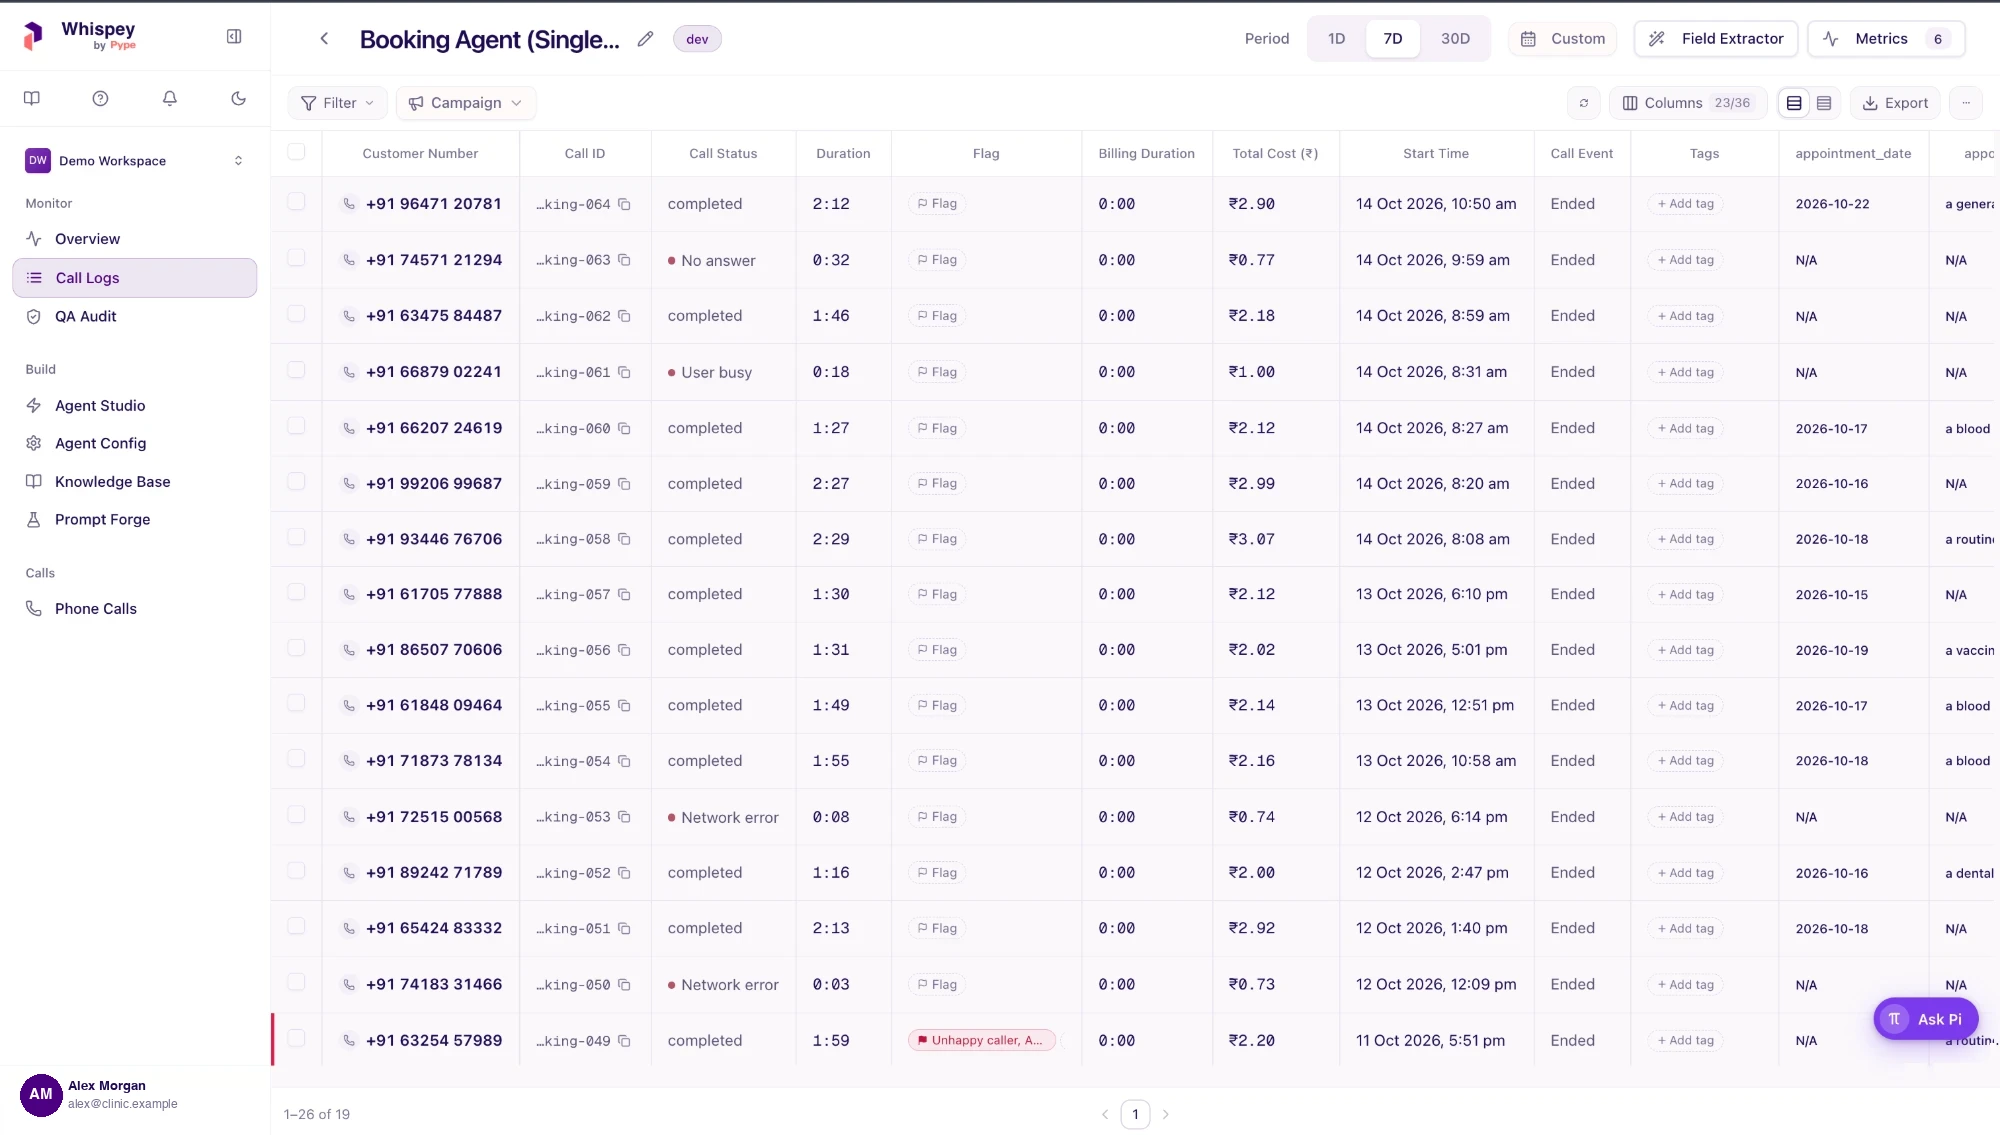
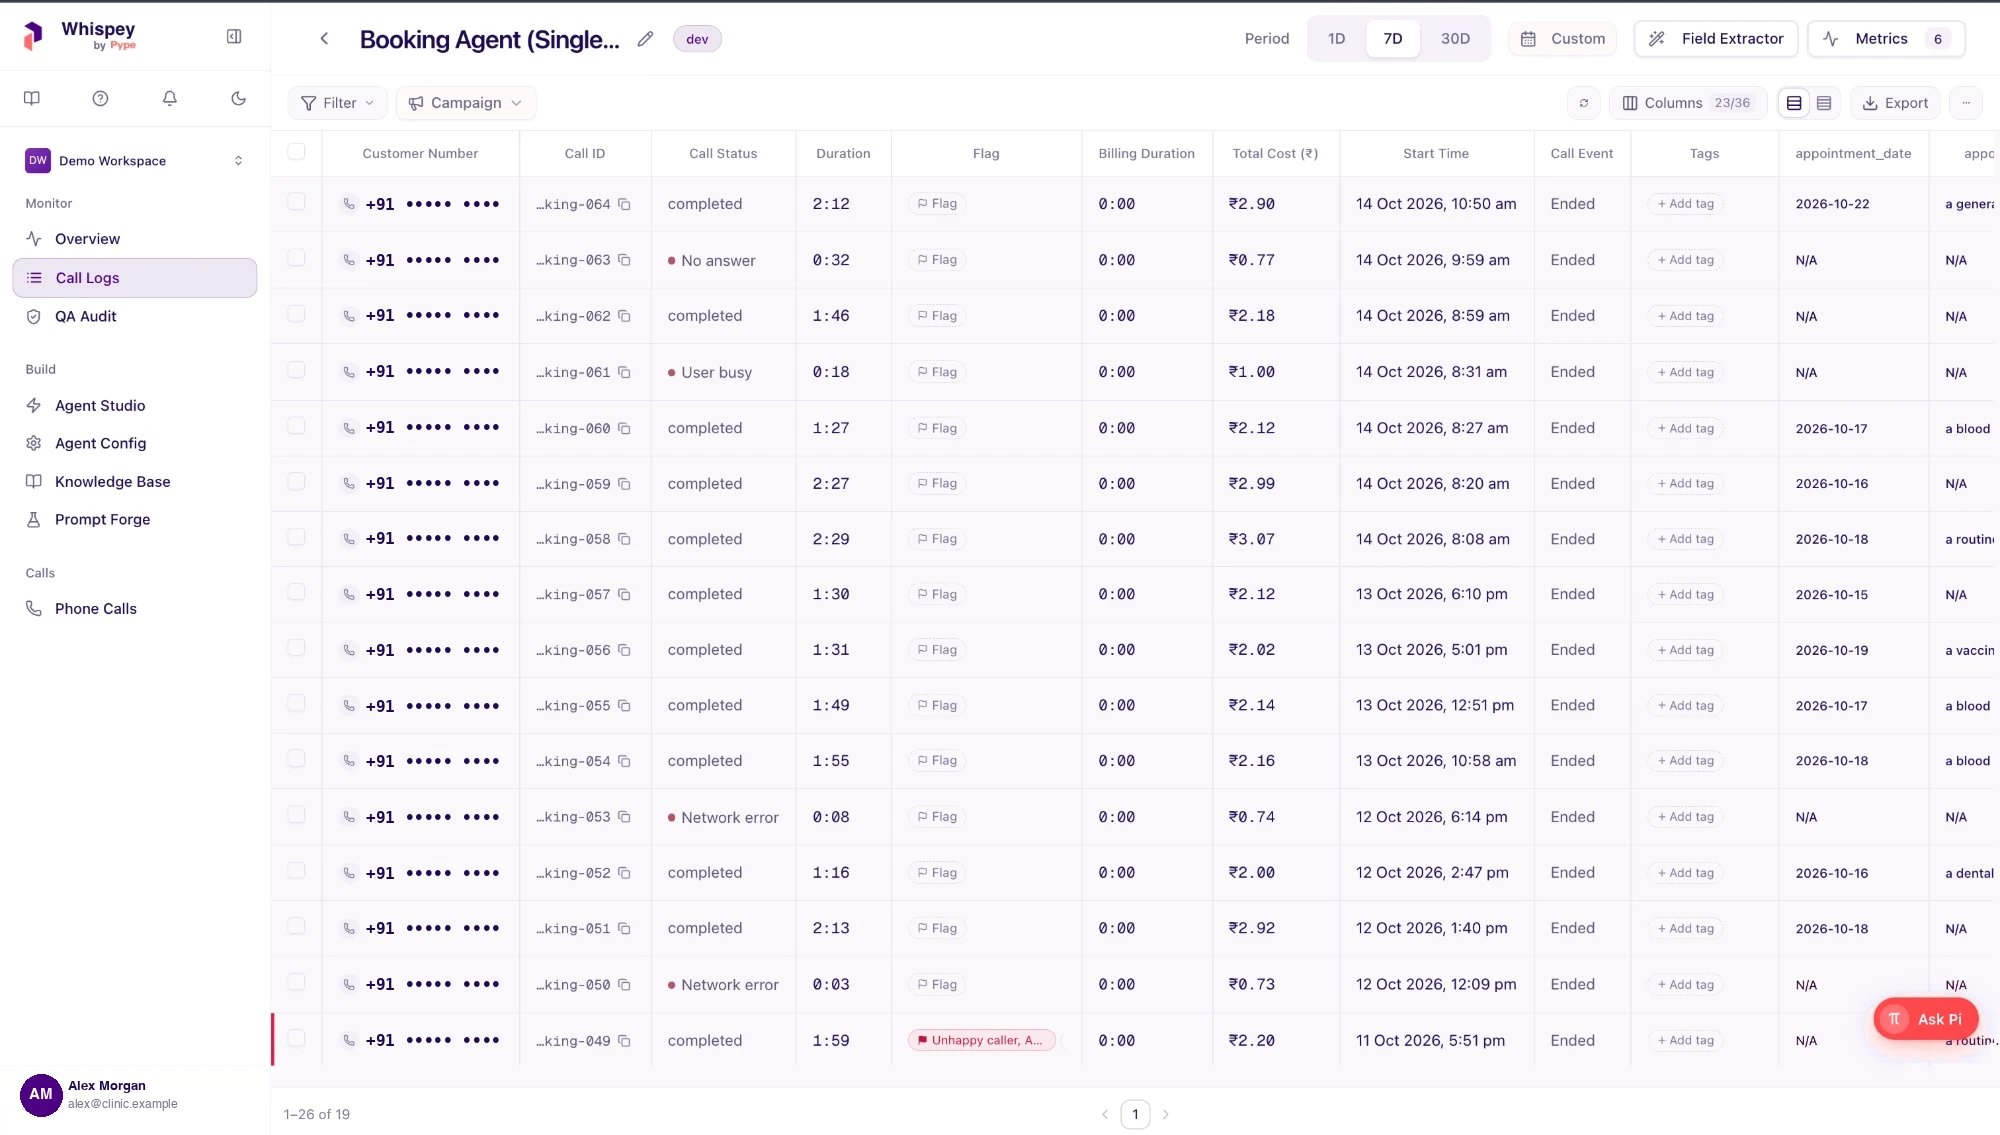
feat(call-logs): Ask Pi and the Pi accents in brand coral; landing screenshots with numbers masked

diff --git a/src/components/calls/v2/AskPi.tsx b/src/components/calls/v2/AskPi.tsx
@@ -1,6 +1,6 @@
 "use client"
 
-// Ask Pi on the Call Logs page, as in the mockup: a violet button floating
+// Ask Pi on the Call Logs page, as in the mockup: a brand-coloured button floating
 // bottom-right (drag it up or down), opening a small chat box above it that can
 // be expanded. It talks to the existing Pi backend with this page's context, so
 // "today's calls", "these calls" and "this call" mean what is on screen. Pi can
@@ -157,8 +157,8 @@ export function AskPi(props: Readonly<AskPiProps>) {
         }}
         className={cn(
           "fixed bottom-24 right-5 z-[85] inline-flex h-10 cursor-pointer touch-none select-none items-center gap-2 rounded-full bg-[var(--cl-violet)] pl-1.5 pr-4 text-[14px] font-semibold text-white",
-          "shadow-[0_8px_24px_rgba(124,58,237,.35),0_2px_6px_rgba(0,0,0,.25)] transition-shadow hover:shadow-[0_10px_28px_rgba(124,58,237,.45),0_2px_6px_rgba(0,0,0,.25)] data-[dragging]:cursor-grabbing",
-          open && "shadow-[0_0_0_3px_var(--cl-violet-soft),0_8px_24px_rgba(124,58,237,.35)]"
+          "shadow-[0_8px_24px_rgba(229,83,91,.35),0_2px_6px_rgba(0,0,0,.25)] transition-shadow hover:shadow-[0_10px_28px_rgba(124,58,237,.45),0_2px_6px_rgba(0,0,0,.25)] data-[dragging]:cursor-grabbing",
+          open && "shadow-[0_0_0_3px_var(--cl-violet-soft),0_8px_24px_rgba(229,83,91,.35)]"
         )}
       >
         <span className="grid h-7 w-7 place-items-center rounded-full bg-white/20"><PiMark className="h-3.5 w-3.5" /></span>

diff --git a/src/components/calls/v2/theme.ts b/src/components/calls/v2/theme.ts
@@ -22,10 +22,10 @@ export const V2_THEME = [
   "[--cl-red-line:rgba(225,29,72,.32)] dark:[--cl-red-line:rgba(244,63,94,.4)]",
   "[--cl-red-text:#be123c] dark:[--cl-red-text:#fda4af]",
   "[--cl-st-fail:#b45468] dark:[--cl-st-fail:#c0727f]",
-  "[--cl-violet:#7c3aed] dark:[--cl-violet:#a78bfa]",
-  "[--cl-violet-soft:rgba(124,58,237,.08)] dark:[--cl-violet-soft:rgba(167,139,250,.12)]",
-  "[--cl-violet-line:rgba(124,58,237,.32)] dark:[--cl-violet-line:rgba(167,139,250,.4)]",
-  "[--cl-violet-text:#6d28d9] dark:[--cl-violet-text:#c4b5fd]",
+  "[--cl-violet:#e5535b] dark:[--cl-violet:#e5535b]",
+  "[--cl-violet-soft:rgba(229,83,91,.09)] dark:[--cl-violet-soft:rgba(255,107,107,.14)]",
+  "[--cl-violet-line:rgba(229,83,91,.34)] dark:[--cl-violet-line:rgba(255,107,107,.4)]",
+  "[--cl-violet-text:#c0353f] dark:[--cl-violet-text:#ff9a9a]",
   "[--cl-shadow:0_12px_40px_rgba(30,10,82,.16)] dark:[--cl-shadow:0_12px_40px_rgba(0,0,0,.5)]",
 ].join(" ")
 
